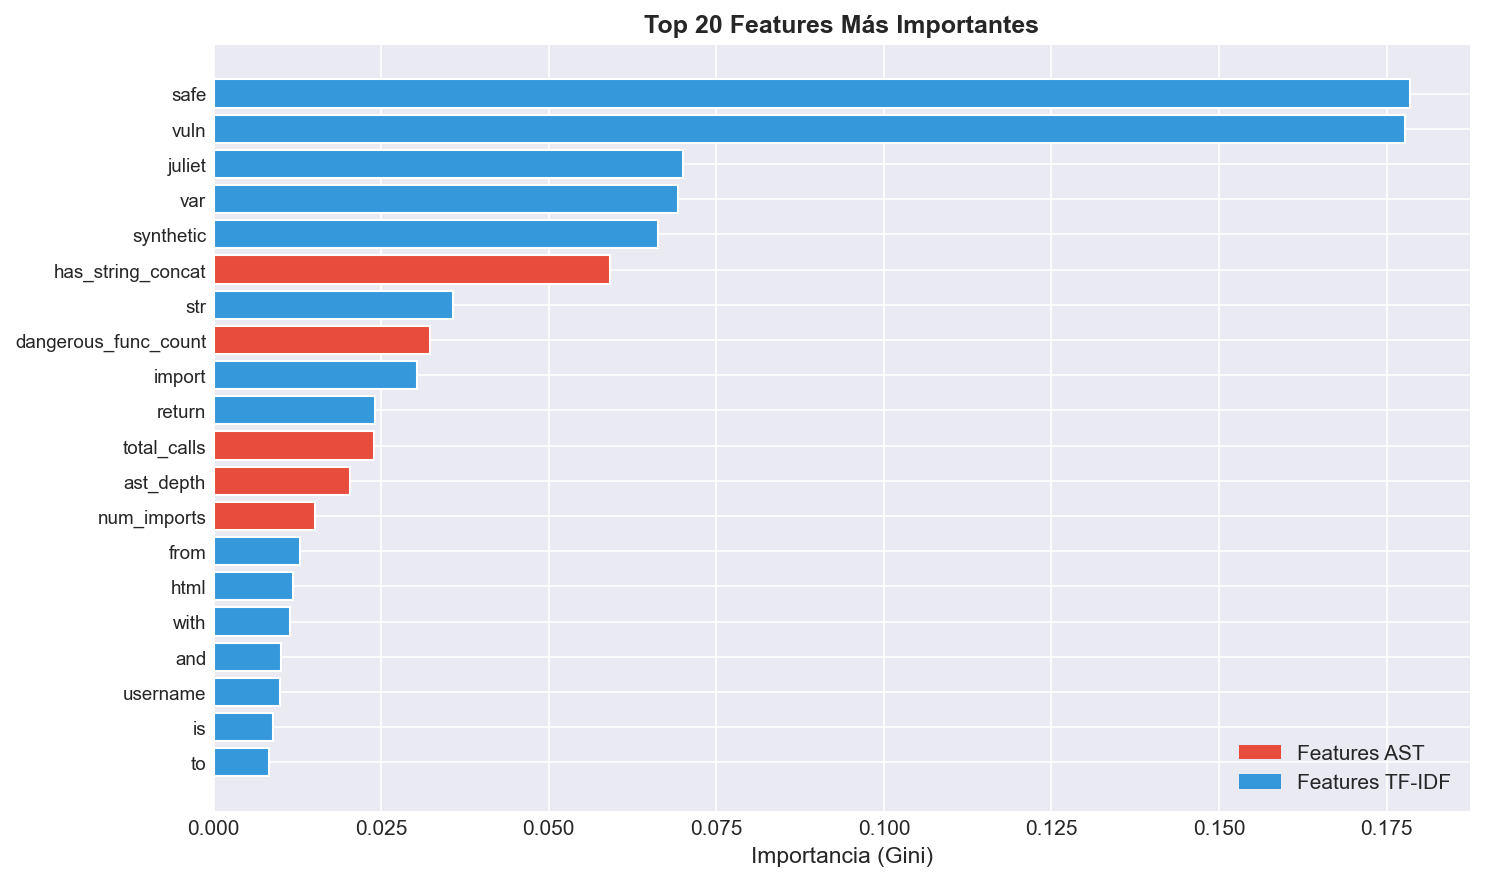
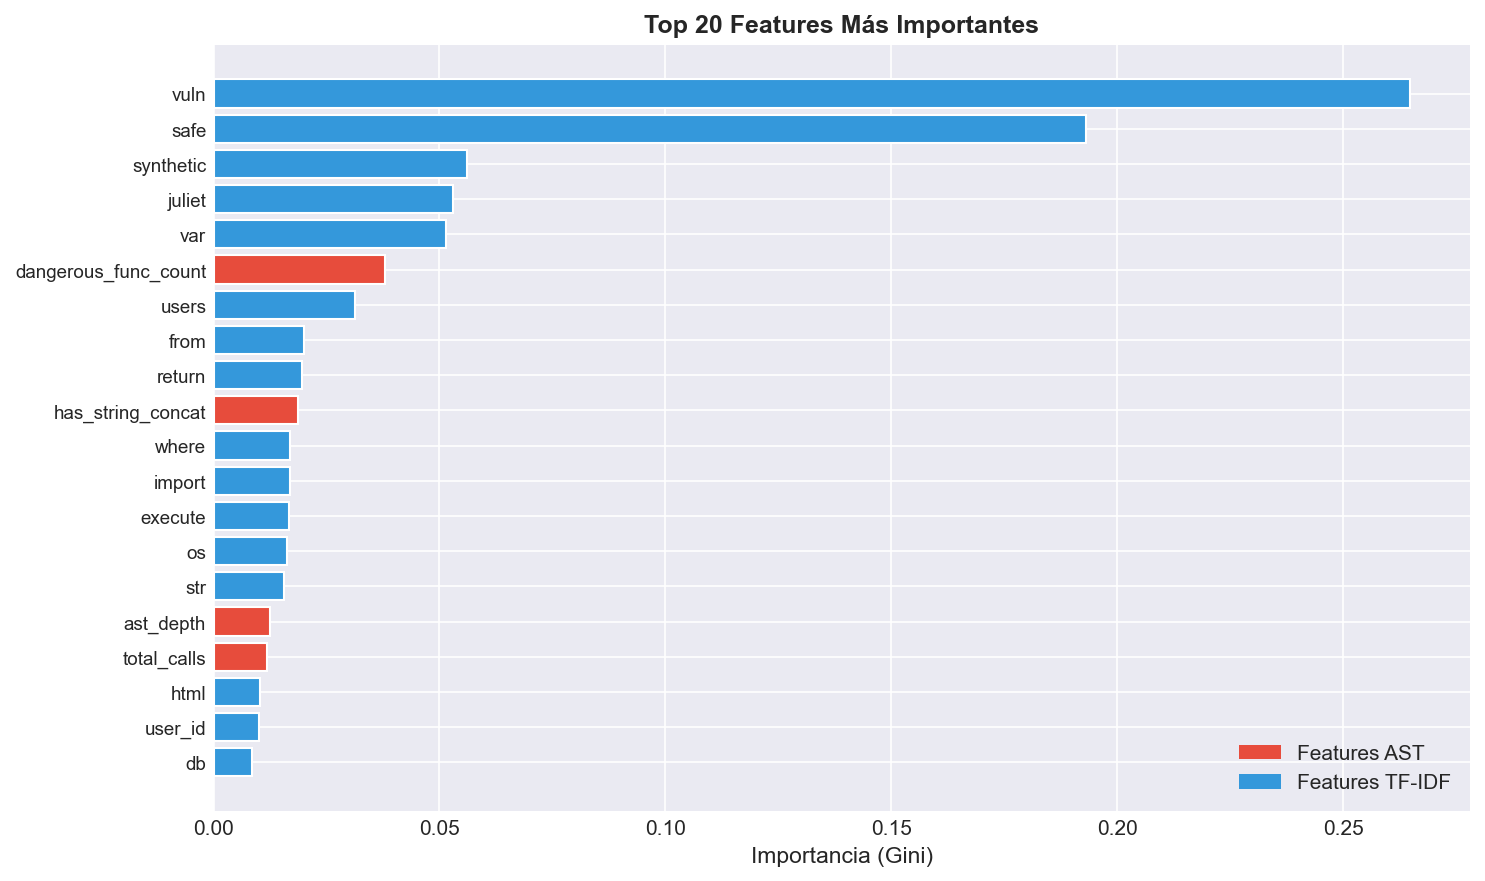
feat: mejorar detector de vulnerabilidades con datos sintéticos y extractor AST robusto

diff --git a/pipeline/fase1_ingesta_feature_engineering.py b/pipeline/fase1_ingesta_feature_engineering.py
@@ -605,7 +605,10 @@ def inject_synthetic_data(df: pd.DataFrame, code_col: str) -> pd.DataFrame:
         "def hash_password(password: str) -> str:\n    import bcrypt\n    return bcrypt.hashpw(password.encode('utf-8'), bcrypt.gensalt()).decode('utf-8')",
         "def sanitize_input(user_input: str) -> str:\n    import re\n    return re.sub(r'[^a-zA-Z0-9 ]', '', user_input)",
         "import html\ndef render_template(user_input):\n    safe_input = html.escape(user_input)\n    return f'<div>{safe_input}</div>'",
-        "import subprocess\ndef ping_host(host):\n    # Safe usage of subprocess with list and no shell\n    return subprocess.run(['ping', '-c', '4', host], capture_output=True)"
+        "import subprocess\ndef ping_host(host):\n    # Safe usage of subprocess with list and no shell\n    return subprocess.run(['ping', '-c', '4', host], capture_output=True)",
+        "def greet_user(username):\n    # F-string seguro\n    return f'Hello, {username}! Welcome back.'",
+        "def get_user_safe(db, user_id):\n    # Parametrizacion\n    return db.execute('SELECT * FROM users WHERE id = :id', {'id': user_id})",
+        "def log_action(user, action):\n    # Uso de format seguro\n    print('User {} performed {}'.format(user, action))"
     ]
 
     synthetic_vuln_snippets = [
@@ -614,7 +617,12 @@ def inject_synthetic_data(df: pd.DataFrame, code_col: str) -> pd.DataFrame:
         "import sqlite3\ndef get_user_vuln(username):\n    # SQL Injection Vulnerability\n    conn = sqlite3.connect('users.db')\n    cursor = conn.cursor()\n    cursor.execute('SELECT * FROM users WHERE username = ' + username)\n    return cursor.fetchall()",
         "def render_page(user_input):\n    # XSS Vulnerability\n    return '<html><body>' + user_input + '</body></html>'",
         "import pickle\ndef load_data(serialized_data):\n    # Insecure Deserialization\n    return pickle.loads(serialized_data)",
-        "def execute_dynamic_code(code_string):\n    # Code Injection\n    eval(code_string)"
+        "def execute_dynamic_code(code_string):\n    # Code Injection\n    eval(code_string)",
+        "def query_db_fstring(db, user_id):\n    # SQLi via f-string\n    return db.execute(f'SELECT * FROM users WHERE id = {user_id}')",
+        "def query_db_format(db, user_id):\n    # SQLi via format\n    return db.execute('SELECT * FROM users WHERE id = {}'.format(user_id))",
+        "def query_db_percent(db, user_id):\n    # SQLi via %\n    return db.execute('SELECT * FROM users WHERE id = %s' % user_id)",
+        "from os import system as sys_call\ndef run_cmd_alias(input_user):\n    sys_call('ping ' + input_user)",
+        "import os as o\ndef run_cmd_mod_alias(input_user):\n    o.system('ping ' + input_user)"
     ]
     
     synthetic_rows = []
@@ -793,46 +801,22 @@ class ASTFeatureExtractor(ast.NodeVisitor):
         return max_depth
 
     def visit_Call(self, node: ast.Call):
-        """
-        Visita un nodo de tipo Call (llamada a función) en el AST.
-
-        Este método se invoca automáticamente por ast.NodeVisitor cada vez
-        que encuentra una llamada a función en el código. Aquí detectamos:
-        - Llamadas simples: eval(...), exec(...)
-        - Llamadas compuestas: subprocess.Popen(...), os.system(...)
-
-        Ejemplo de AST para `eval(user_input)`:
-            Call(func=Name(id='eval'), args=[Name(id='user_input')])
-
-        Ejemplo de AST para `os.system(cmd)`:
-            Call(func=Attribute(value=Name(id='os'), attr='system'), args=[...])
-        """
         self.total_calls += 1
-
-        # ── Detección de llamadas simples: eval(), exec() ──────────────────
-        # En el AST, una llamada simple tiene func como un nodo Name
-        # con el atributo 'id' conteniendo el nombre de la función.
+        
+        # Detecta eval, exec, o funciones importadas directamente (ej: from os import system)
         if isinstance(node.func, ast.Name):
-            if node.func.id in self._SIMPLE_DANGEROUS:
+            if node.func.id in {"eval", "exec", "system", "Popen", "call"}:
                 self.dangerous_func_count += 1
                 logger.debug(f"   🚨 Función peligrosa detectada: {node.func.id}()")
-
-        # ── Detección de llamadas compuestas: module.function() ────────────
-        # En el AST, una llamada con punto (e.g., os.system) tiene func
-        # como un nodo Attribute con:
-        #   - value.id = nombre del módulo (e.g., "os")
-        #   - attr = nombre de la función (e.g., "system")
+                
+        # Detecta llamadas compuestas con alias de módulo (ej: o.system o sub.Popen) y llamadas a format()
         elif isinstance(node.func, ast.Attribute):
-            if isinstance(node.func.value, ast.Name):
-                pair = (node.func.value.id, node.func.attr)
-                if pair in self._COMPOUND_DANGEROUS:
-                    self.dangerous_func_count += 1
-                    logger.debug(
-                        f"   🚨 Función peligrosa detectada: "
-                        f"{pair[0]}.{pair[1]}()"
-                    )
+            if node.func.attr in {"system", "Popen", "call"}:
+                self.dangerous_func_count += 1
+                logger.debug(f"   🚨 Función peligrosa detectada: (alias).{node.func.attr}()")
+            elif node.func.attr == "format":
+                self.has_string_concat = 1
 
-        # Continuar visitando nodos hijos (important para no perder nodos)
         self.generic_visit(node)
 
     def visit_Import(self, node: ast.Import):
@@ -846,18 +830,12 @@ class ASTFeatureExtractor(ast.NodeVisitor):
         self.generic_visit(node)
 
     def visit_BinOp(self, node: ast.BinOp):
-        """
-        Detecta operaciones de concatenación de strings (operador +).
-
-        La concatenación de strings con datos de usuario es un patrón
-        clásico de SQL Injection y XSS:
-            query = "SELECT * FROM users WHERE id=" + user_input
-                                                    ^^^^^^^^^^^
-        En el AST, esto se representa como:
-            BinOp(left=..., op=Add(), right=...)
-        """
-        if isinstance(node.op, ast.Add):
+        if isinstance(node.op, (ast.Add, ast.Mod)):
             self.has_string_concat = 1
+        self.generic_visit(node)
+
+    def visit_JoinedStr(self, node: ast.JoinedStr):
+        self.has_string_concat = 1
         self.generic_visit(node)
 
     def visit_ExceptHandler(self, node: ast.ExceptHandler):

diff --git a/scripts/analizador_ci.py b/scripts/analizador_ci.py
@@ -47,13 +47,13 @@ class ASTFeatureExtractor(ast.NodeVisitor):
     def visit_Call(self, node: ast.Call):
         self.total_calls += 1
         if isinstance(node.func, ast.Name):
-            if node.func.id in self._SIMPLE_DANGEROUS:
+            if node.func.id in {"eval", "exec", "system", "Popen", "call"}:
                 self.dangerous_func_count += 1
         elif isinstance(node.func, ast.Attribute):
-            if isinstance(node.func.value, ast.Name):
-                pair = (node.func.value.id, node.func.attr)
-                if pair in self._COMPOUND_DANGEROUS:
-                    self.dangerous_func_count += 1
+            if node.func.attr in {"system", "Popen", "call"}:
+                self.dangerous_func_count += 1
+            elif node.func.attr == "format":
+                self.has_string_concat = 1
         self.generic_visit(node)
 
     def visit_Import(self, node: ast.Import):
@@ -65,8 +65,12 @@ class ASTFeatureExtractor(ast.NodeVisitor):
         self.generic_visit(node)
 
     def visit_BinOp(self, node: ast.BinOp):
-        if isinstance(node.op, ast.Add):
+        if isinstance(node.op, (ast.Add, ast.Mod)):
             self.has_string_concat = 1
+        self.generic_visit(node)
+
+    def visit_JoinedStr(self, node: ast.JoinedStr):
+        self.has_string_concat = 1
         self.generic_visit(node)
 
     def visit_ExceptHandler(self, node: ast.ExceptHandler):